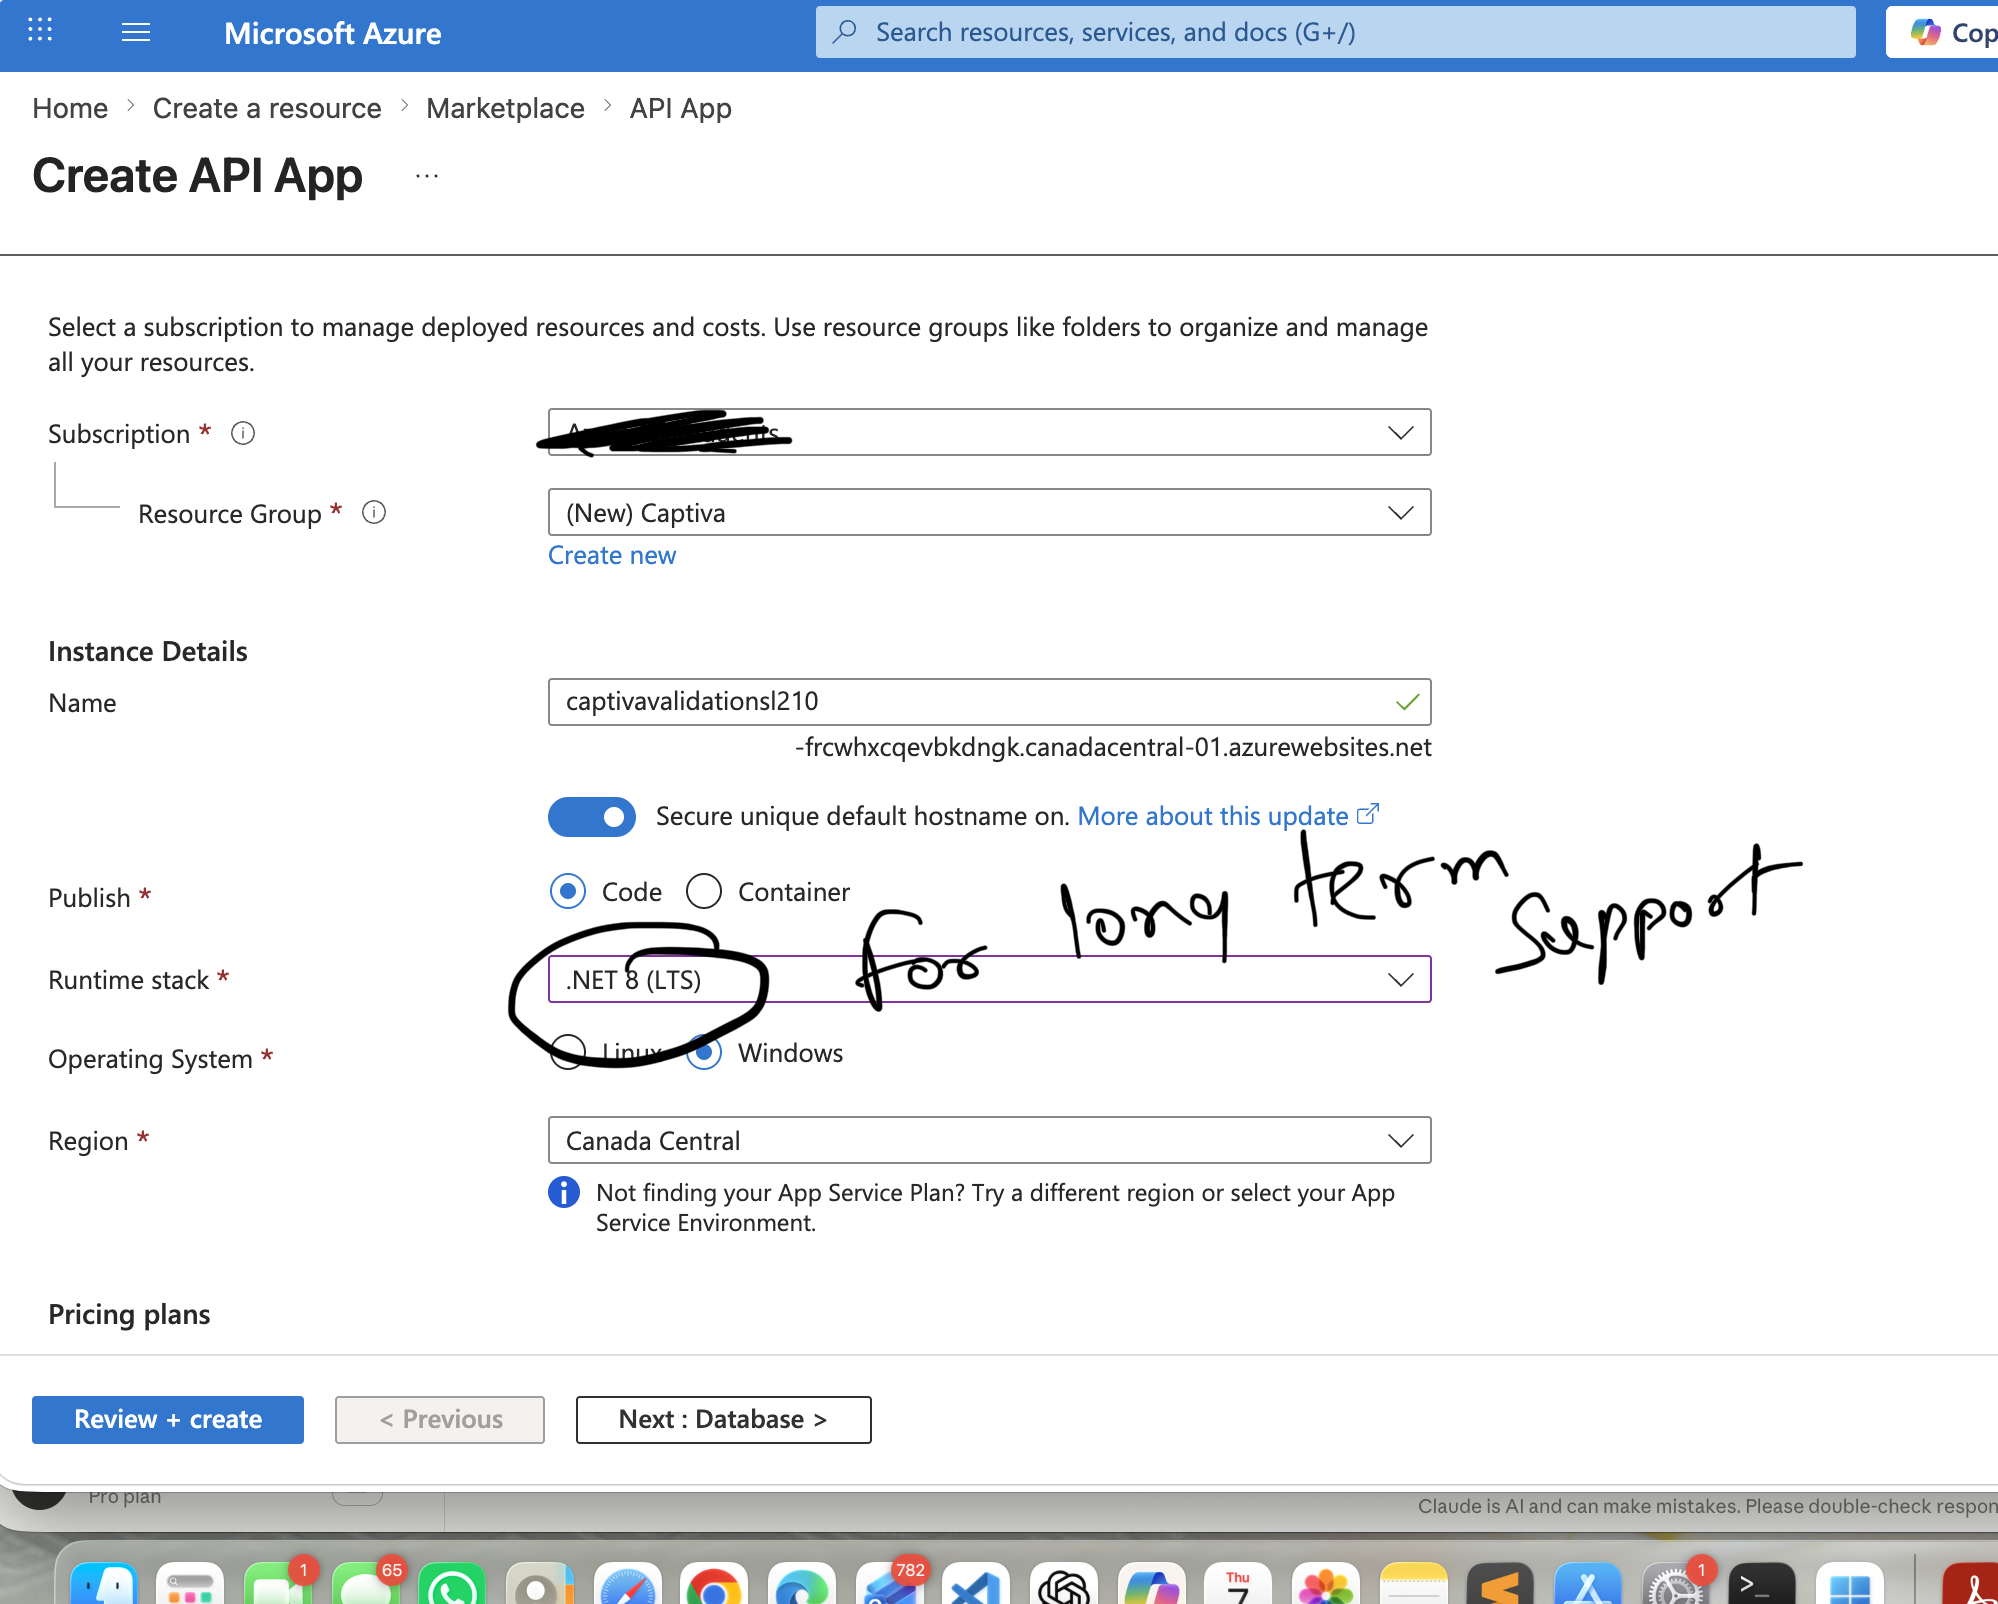
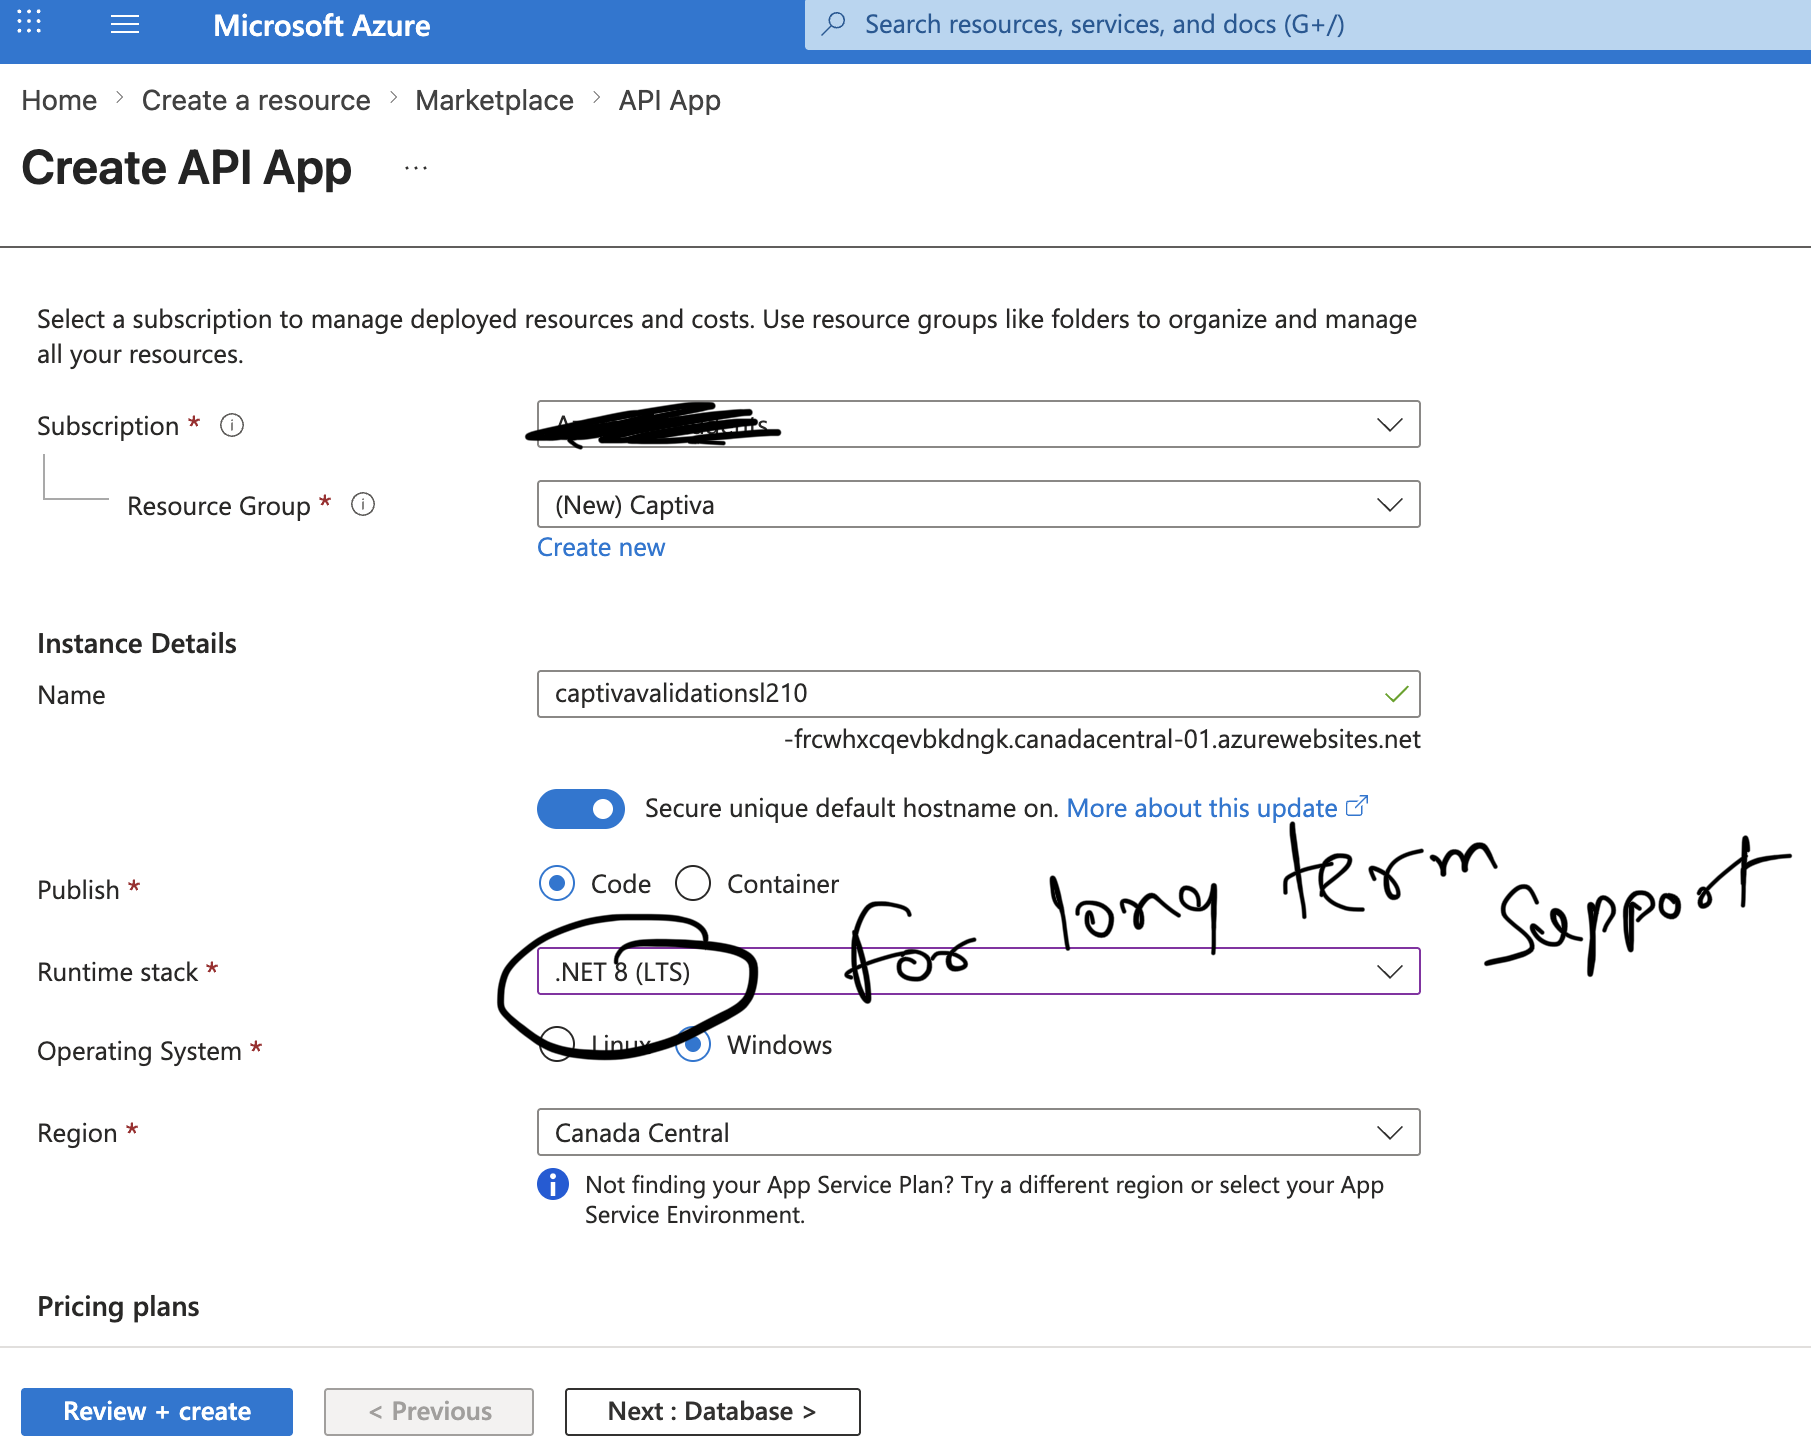
changes

diff --git a/Projects/SOAP_To_Rest_Azure.md b/Projects/SOAP_To_Rest_Azure.md
@@ -1,11 +1,3 @@
-
-
-
-
-
-
----
-
 # Upgrading a Legacy SOAP Integration to REST on Azure
 ## A Step-by-Step Approach — AFU Project Case Study
 